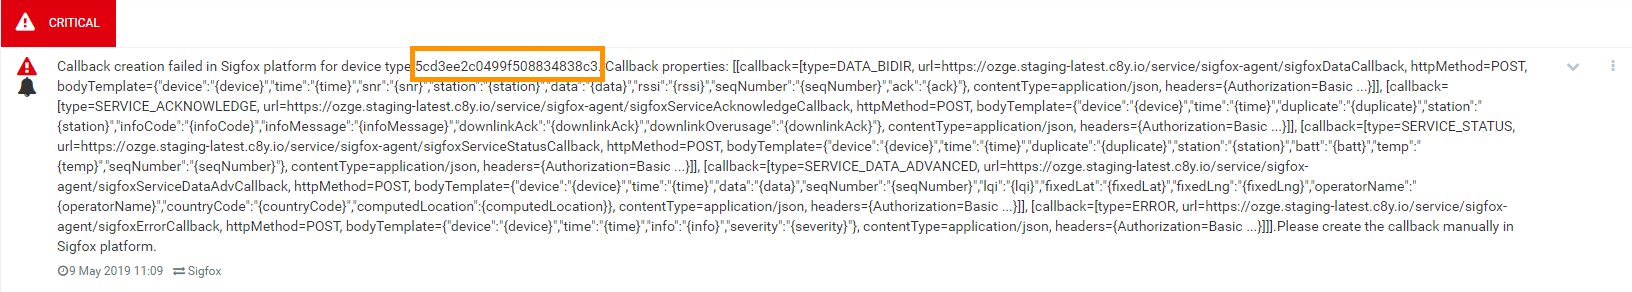
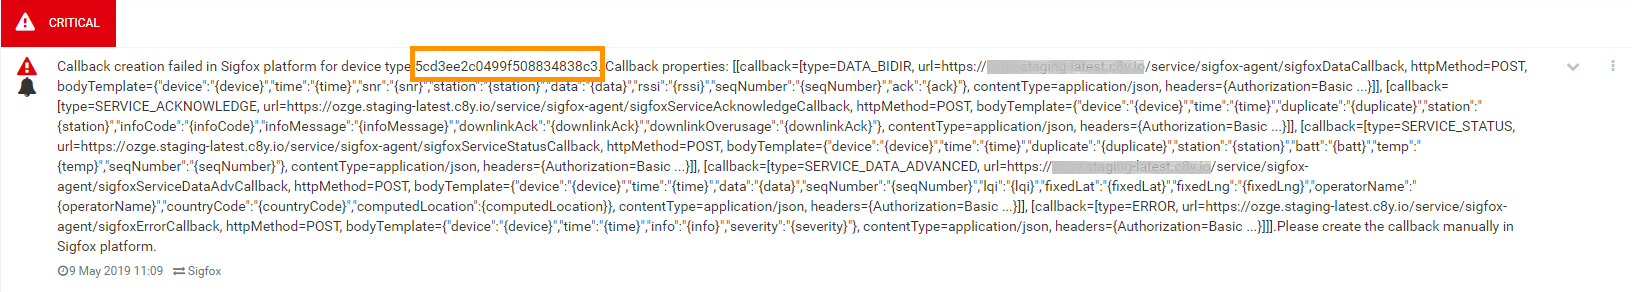
MTM-26518 Changes after review.

Changed region(s): [[0.5938, 0.1849, 0.7188, 0.2774], [0.625, 0.524, 0.75, 0.6164]]

diff --git a/content/users-guide/optional-services-bundle/sigfox.md b/content/users-guide/optional-services-bundle/sigfox.md
@@ -300,7 +300,7 @@ In this case navigate to the following address: *https://backend.sigfox.com/devi
 
 If the mentioned callbacks cannot be located in the Sigfox platform, you must create them manually. All of the required information needed for the creation of the callbacks is already given in the alarm description. In the case of the above alarm, the following callback is listed first:
 
- - [[callback=[type=DATA_BIDIR, url=https://ozge.staging-latest.c8y.io/service/sigfox-agent/sigfoxDataCallback, httpMethod=POST, bodyTemplate={"device":"{device}","time":"{time}","snr":"{snr}","station":"{station}","data":"{data}","rssi":"{rssi}","seqNumber":"{seqNumber}","ack":"{ack}"}, contentType=application/json, headers={Authorization=Basic ...}]]
+ - [[callback=[type=DATA_BIDIR, url=<<tenant_url>>/service/sigfox-agent/sigfoxDataCallback, httpMethod=POST, bodyTemplate={"device":"{device}","time":"{time}","snr":"{snr}","station":"{station}","data":"{data}","rssi":"{rssi}","seqNumber":"{seqNumber}","ack":"{ack}"}, contentType=application/json, headers={Authorization=Basic ...}]]
 
 In order to manually create the callback, the following properties must be filled:
 
